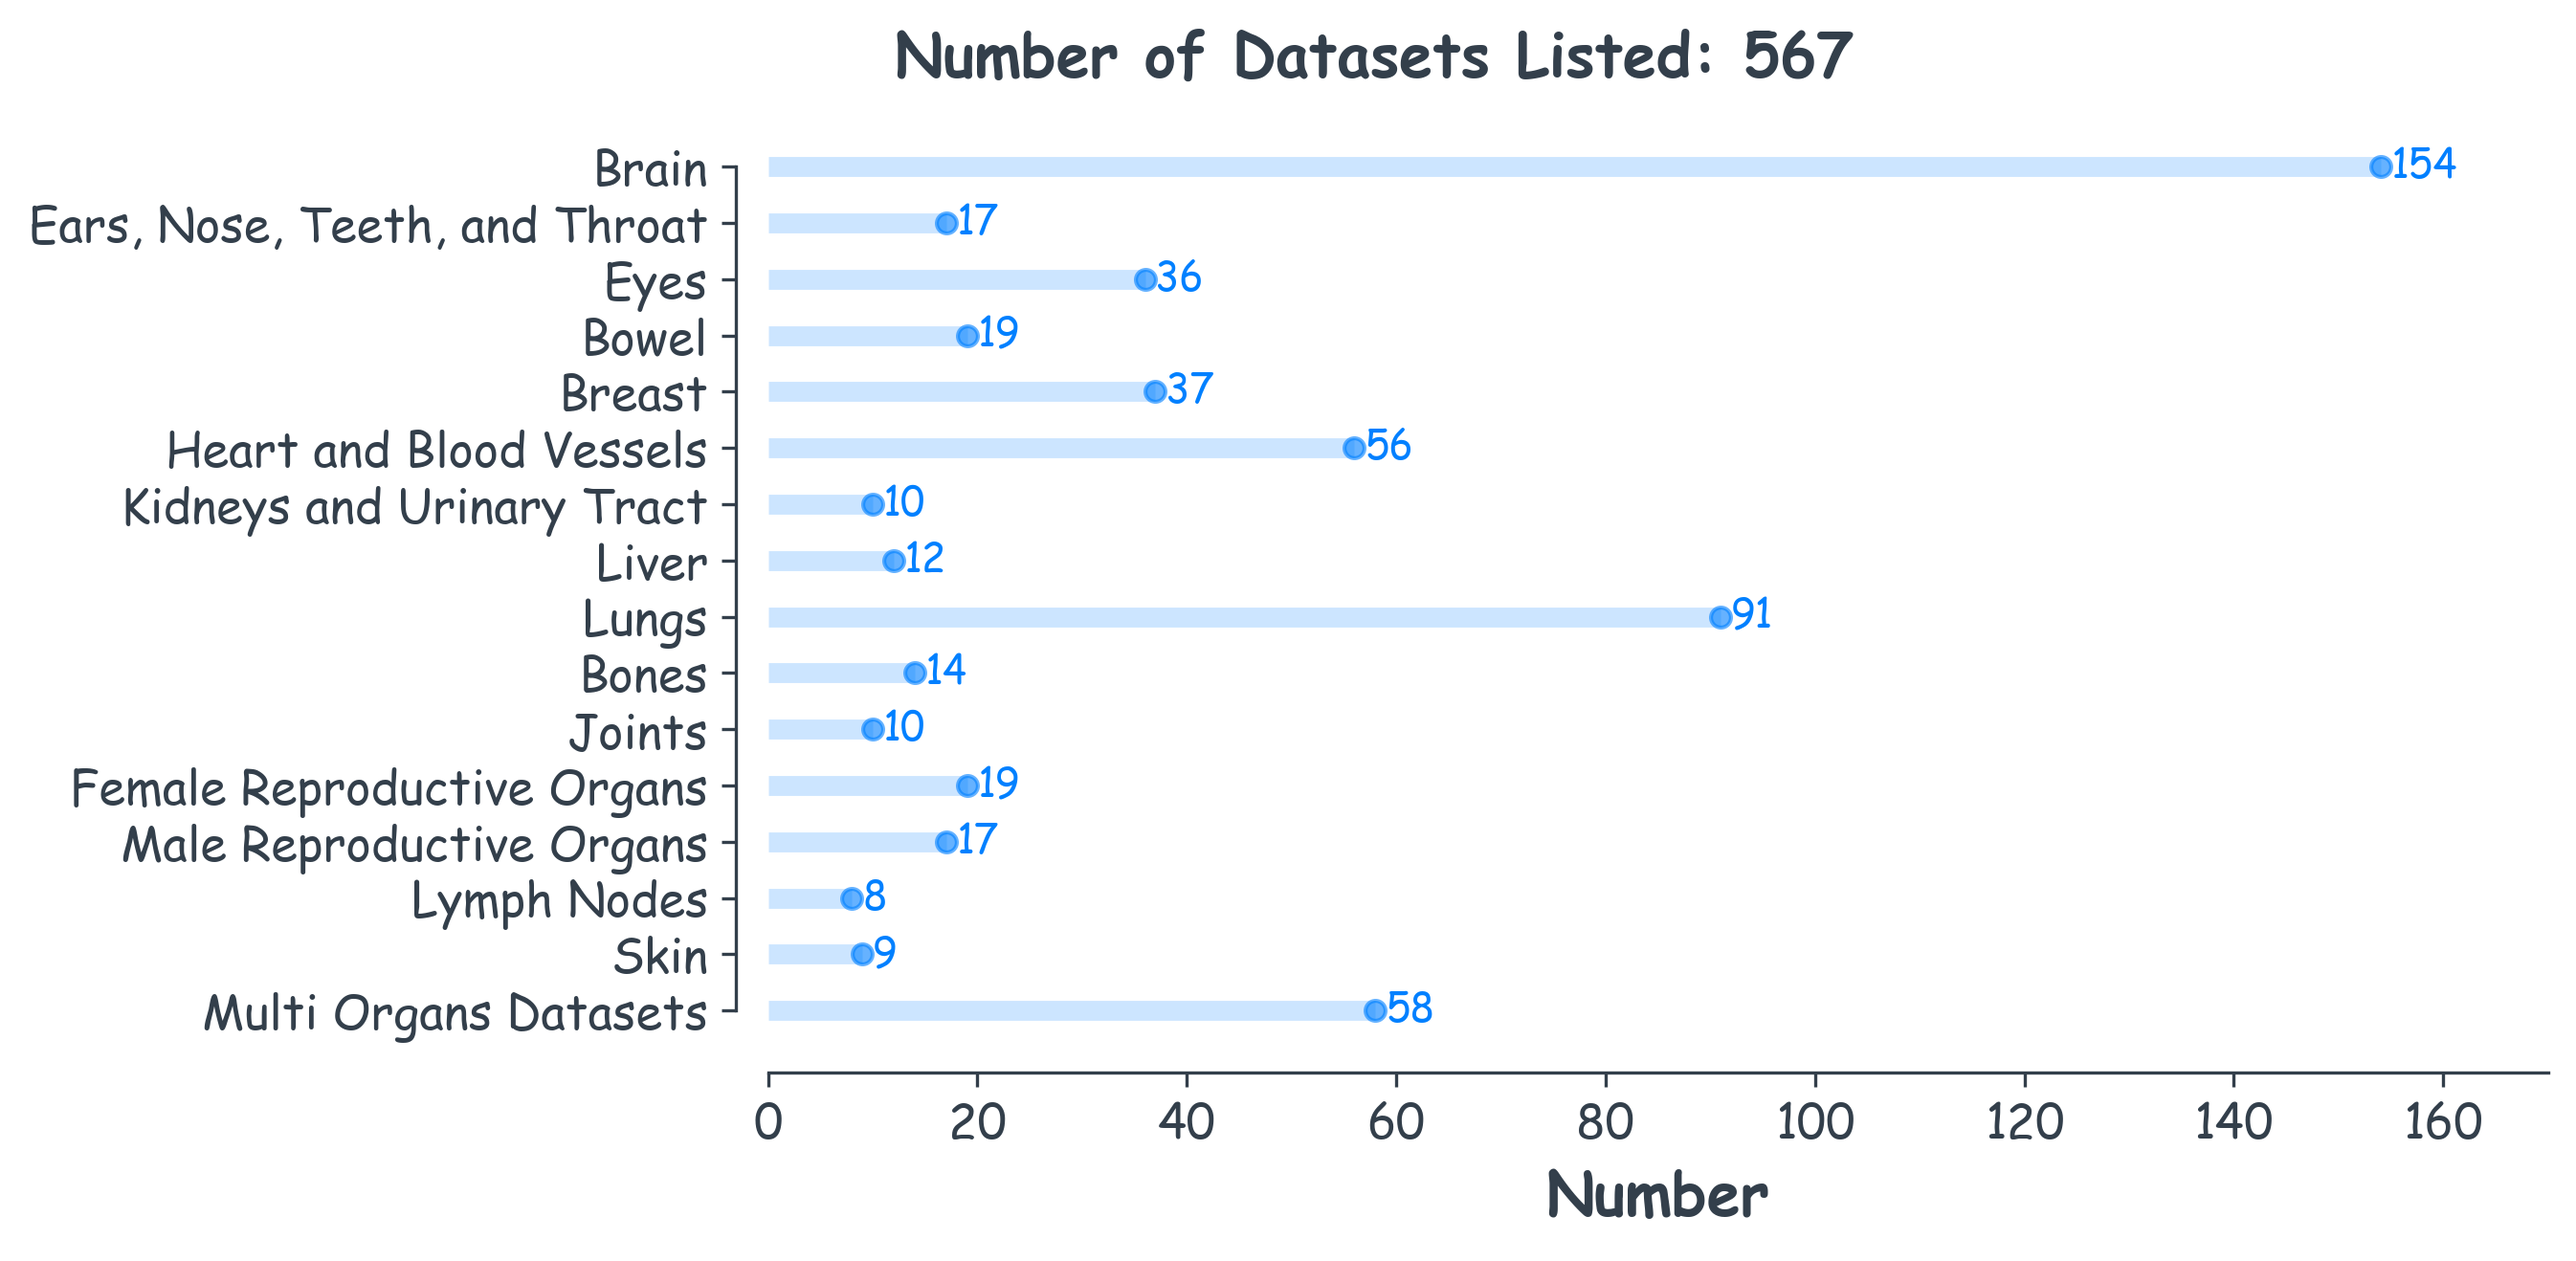
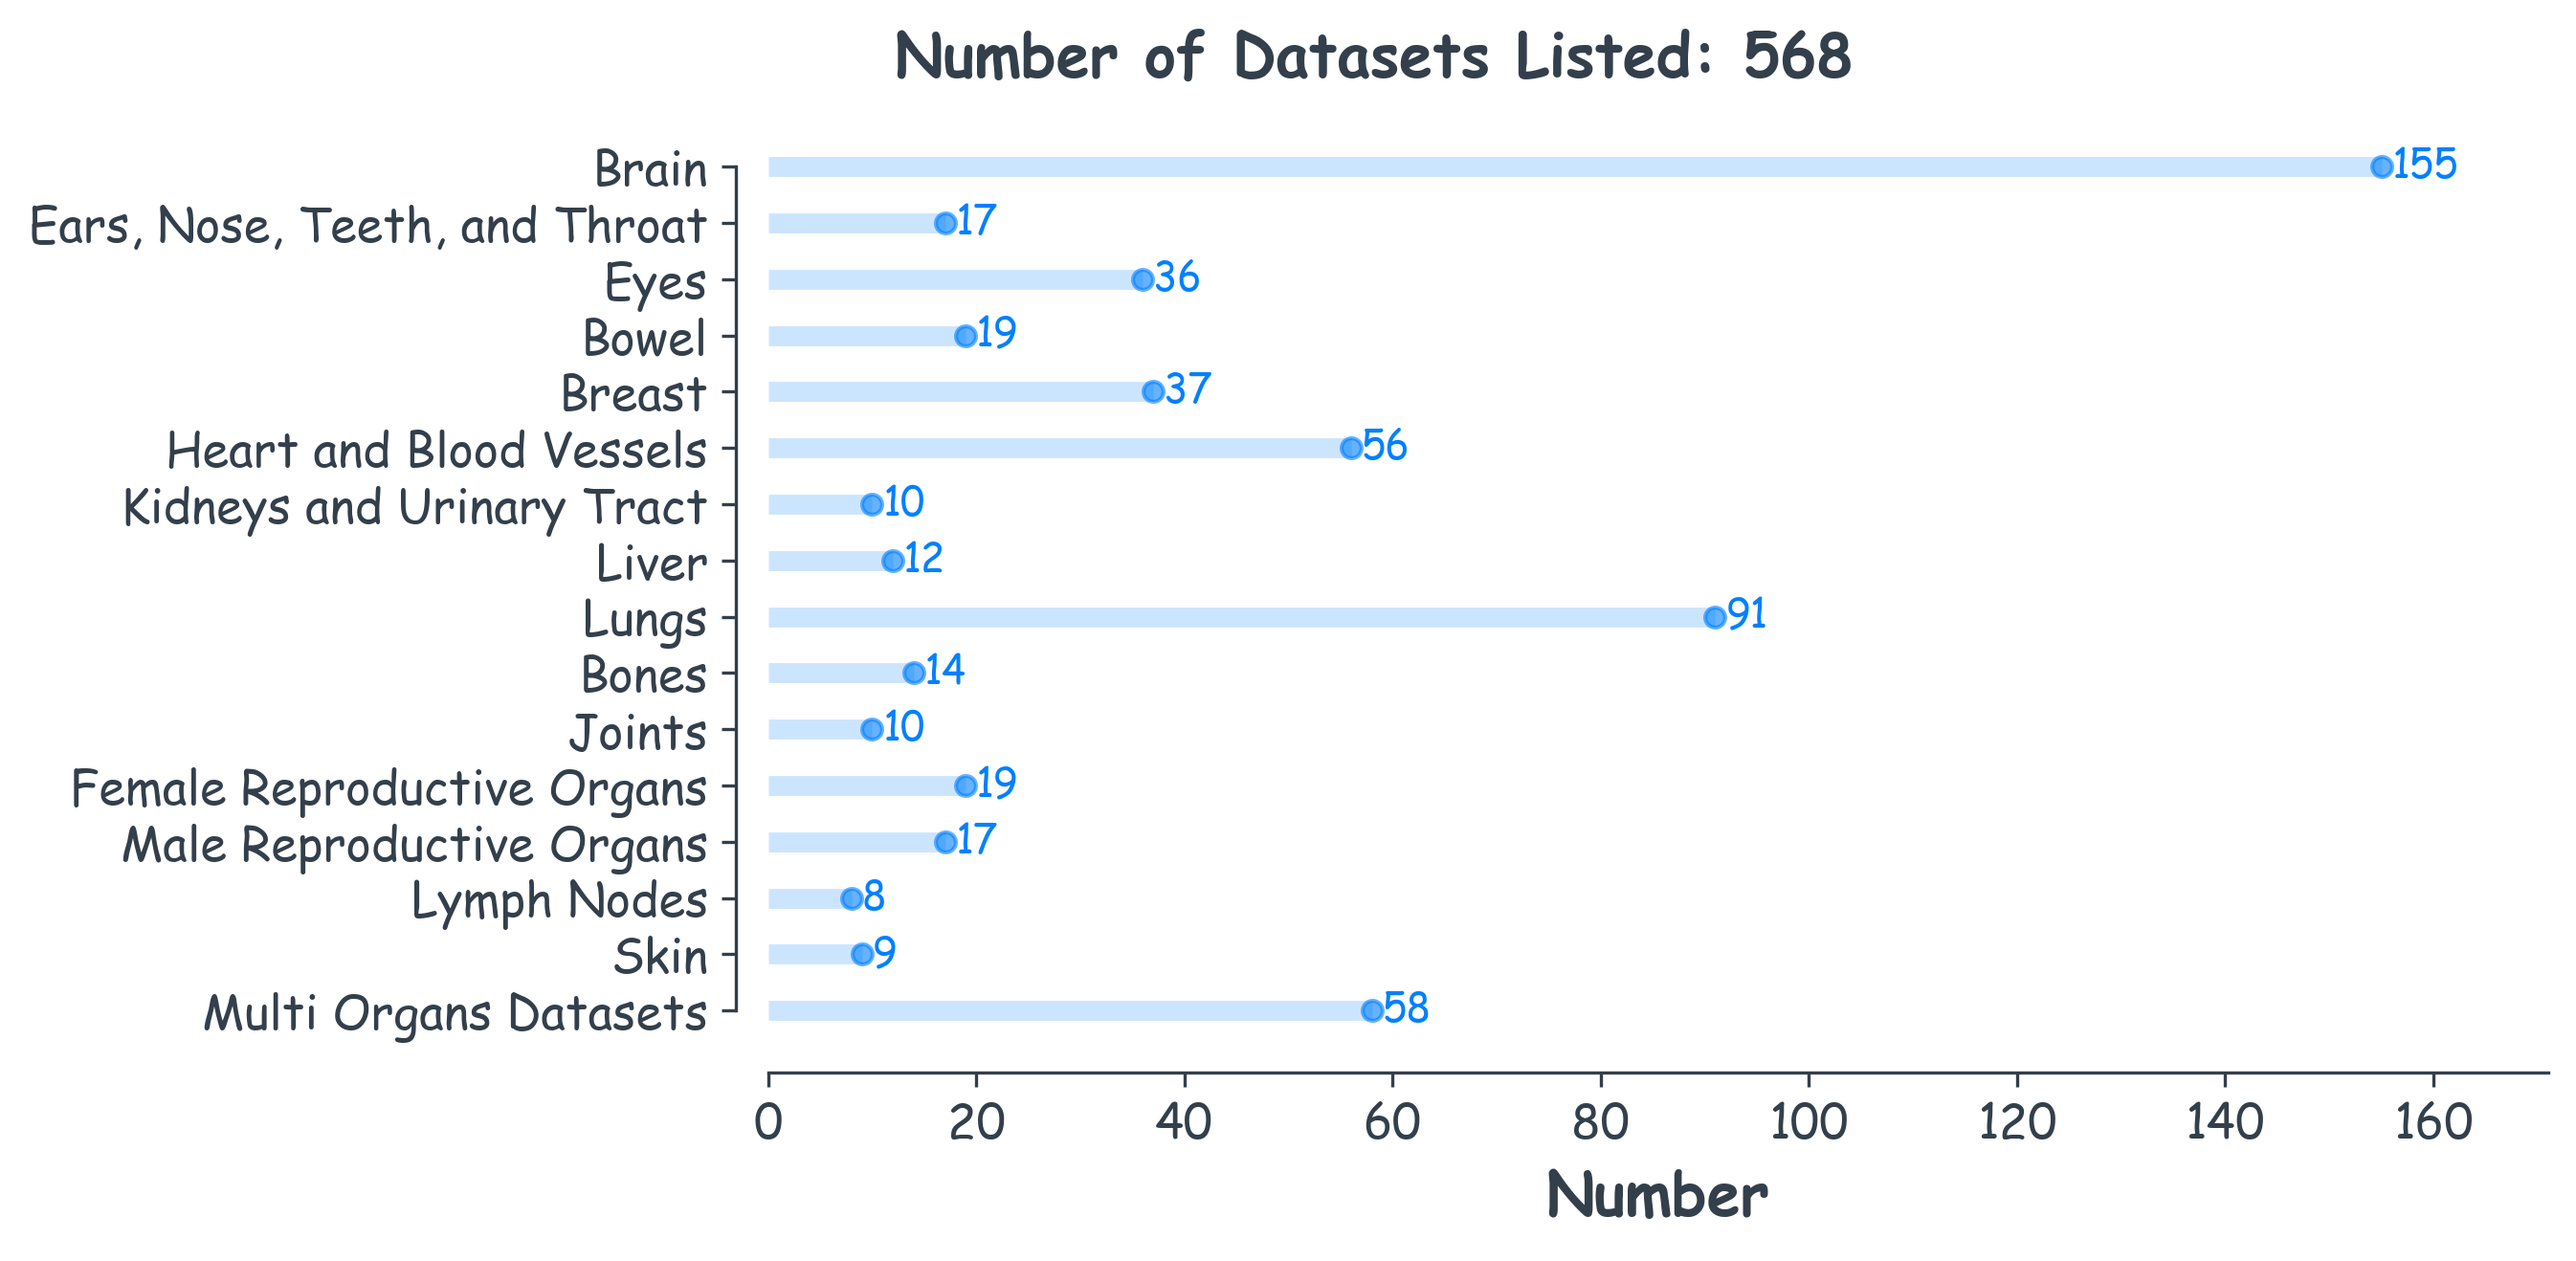
update image number, N = 568

diff --git a/src/datasetNumberImage.py b/src/datasetNumberImage.py
@@ -29,7 +29,7 @@ plt.rcParams['text.color']='#333F4B'
 
 
 data = {
-       'Brain': 154,
+       'Brain': 155,
        'Ears, Nose, Teeth, and Throat': 17, 
        'Eyes': 36,
        'Bowel': 19,
